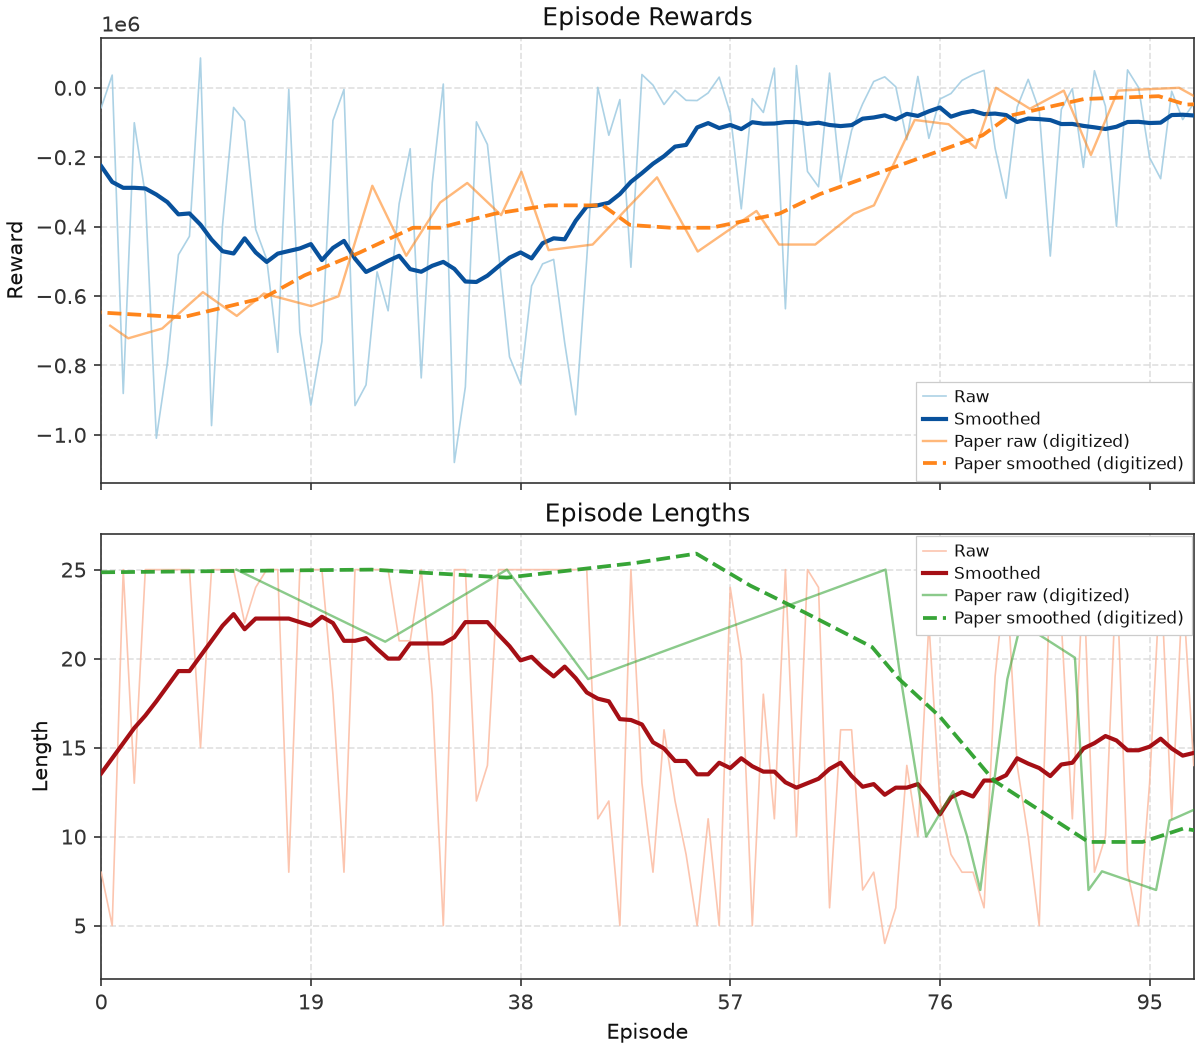
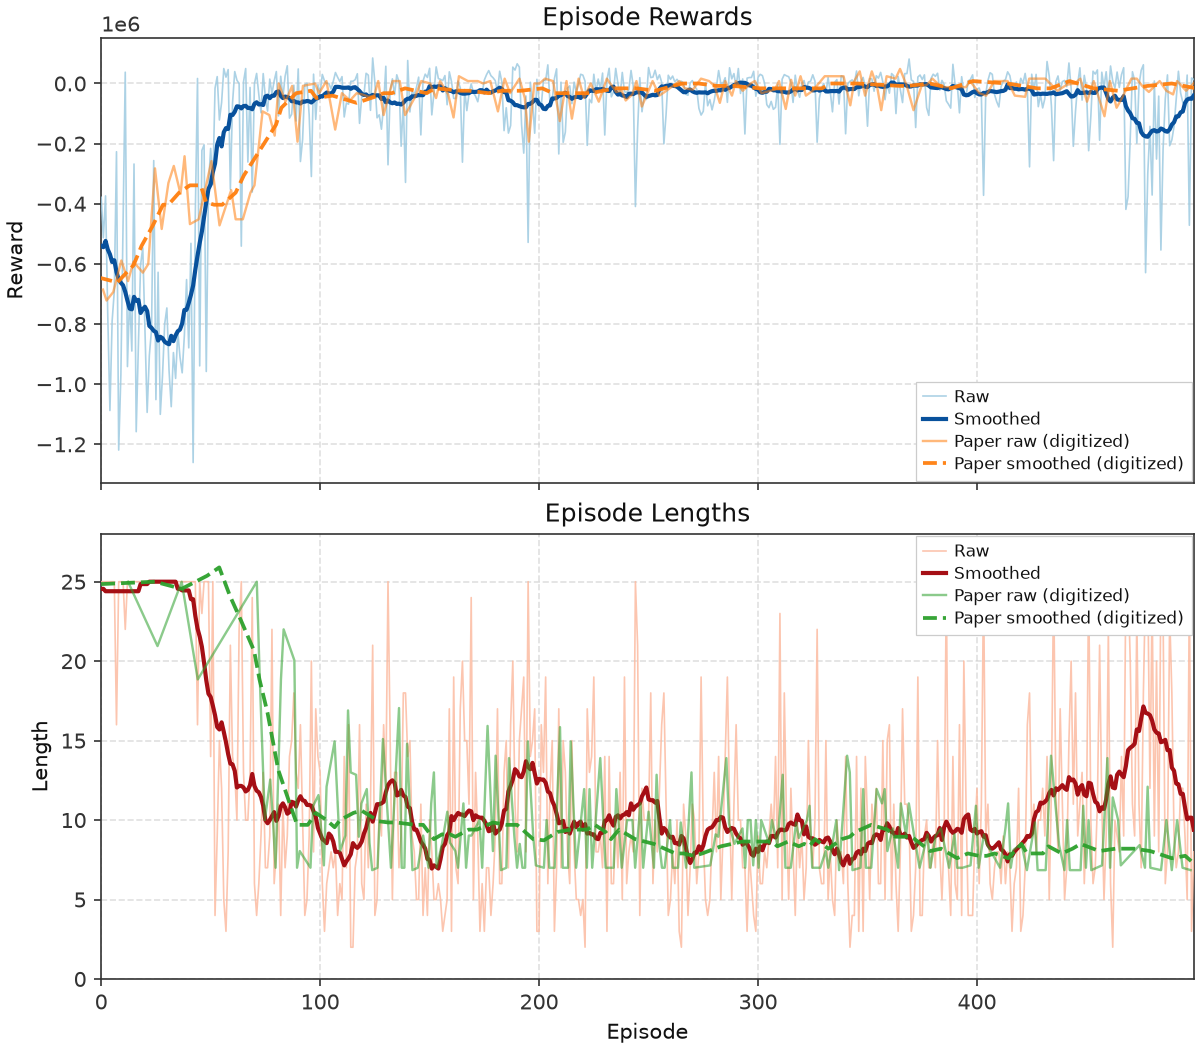
Document Nguyen Fig 4 v88 Double DQN results.
v88 halves late timeout rate vs v83 and improves late length level;
Tier-2 plateau and late_slope still fail. Archive checkpoint_v88 lineage.

diff --git a/figures/ravivarapu/replications.md b/figures/ravivarapu/replications.md
@@ -9,10 +9,10 @@ Side-by-side **paper panel** vs **our replication**. Plot scripts write replicat
 |-------|-------------|--------|
 | Fig 4a | Training PSD vs episode | Pass (v62) |
 | Fig 4b | Training reward vs episode | Pass |
-| Fig 5a | Inference @ 50 Hz | Open |
-| Fig 5b | Inference @ 30 Hz | Open |
+| Fig 5a | Inference @ 50 Hz | Pass |
+| Fig 5b | Inference @ 30 Hz | Pass |
 | Fig 6 | FP16 PTQ @ 50 Hz | Pass |
-| Fig 7 | Ablation (Baseline / +PM / +GS / SEA-DBS) | Open |
+| Fig 7 | Ablation (Baseline / +PM / +GS / SEA-DBS) | Pass (v6) |
 <!-- summary:end -->
 
 Replication PNGs: `figures/ravivarapu/images/`. JSON caches: `artifacts/figures/papers/`. Paper crops: `figures/ravivarapu/images/<panel>/paper.png` (from KB paper-note embeds; Fig 4/5 split from combined panels). Full composites also under `figures/ravivarapu/images/_full/`. Controller spec: [sea_dbs/replication.md](../../docs/controllers/sea_dbs/replication.md). Schematics (paper Figs 1, 3) are **out of scope**. Fig 2 (reward curve) is optional polish, not a gate.
@@ -44,7 +44,7 @@ Related numeric protocol (not a separate panel): **Table II** — seed change ev
 **Status:** **Pass** (rep v62) — `shape_pass` and full `pass`; `fixed_episode_seed_until=2`; `fig4_ravivarapu_config_v93`; display roll10 (gates on raw); paper overlay (black baseline, grey SEA-DBS). Manifest `artifacts/figures/papers/ravivarapu/4/manifest_4a.json`.
 
 <!-- gates-4a:start -->
-**Gates set** (`artifacts/figures/papers/ravivarapu/4/manifest_4a.json`; **`shape_pass`**: yes, **`pass`**: yes, 2026-08-17). Phase 1: **`shape_pass`** (trajectory shape / ordering). Ship exit: **`pass`** (adds digitization level polish).
+**Gates set** (`artifacts/figures/papers/ravivarapu/4/manifest_4a.json`; **`shape_pass`**: yes, **`pass`**: yes, 2026-08-19). Phase 1: **`shape_pass`** (trajectory shape / ordering). Ship exit: **`pass`** (adds digitization level polish).
 
 | Key | Description | Shape | Full |
 |-----|-------------|-------|------|
@@ -112,7 +112,7 @@ uv run python -m rl_adaptive_dbs.run scripts/figures/papers/ravivarapu/4a/plot.p
 **Status:** Pass — see manifest gates.
 
 <!-- gates-4b:start -->
-**Gates set** (`artifacts/figures/papers/ravivarapu/4/manifest_4b.json`; overall **`pass`**: yes, 2026-08-17). Every row is required for exit.
+**Gates set** (`artifacts/figures/papers/ravivarapu/4/manifest_4b.json`; overall **`pass`**: yes, 2026-08-19). Every row is required for exit.
 
 | Key | Description | Pass |
 |-----|-------------|------|
@@ -146,37 +146,37 @@ Carrier frequency is a **fixed eval setting**, not a per-step RL action ([sea_db
 
 ### Replication
 
-![Replication Fig 5a](images/5a/inference_50hz_v15.png)
+![Replication Fig 5a](images/5a/inference_50hz_v16.png)
 
 <!-- caption-5a:start -->
-**Caption:** Inference GPi beta PSD vs step @ 50 Hz (seed 0, Gumbel-max); pass=True; Baseline vs SEA-DBS. (v15)
+**Caption:** Inference GPi beta PSD vs step @ 50 Hz (seed 0, Gumbel-max); pass=True; Baseline vs SEA-DBS. (v16)
 
 **Manifest:** `artifacts/figures/papers/ravivarapu/5a/manifest.json`
 <!-- caption-5a:end -->
 
-**Status:** **Pass** (rep v15) — inference @ 50 Hz. Late SEA 6–10 is the 150 ms independent-shot floor (~0.328); Kumaravelu 50 Hz does not keep falling to digitized ~0.310. Manifest `artifacts/figures/papers/ravivarapu/5a/manifest.json`.
+**Status:** **Pass** (rep v16) — inference @ 50 Hz; Manifest `artifacts/figures/papers/ravivarapu/5a/manifest.json`.
 
 <!-- gates-5a:start -->
-**Gates set** (`no manifest at `artifacts/figures/papers/ravivarapu/5a/manifest.json``; overall **`pass`**: —, 2026-08-17). Every row is required for exit.
+**Gates set** (`artifacts/figures/papers/ravivarapu/5a/manifest.json`; overall **`pass`**: yes, 2026-08-19). Every row is required for exit.
 
 | Key | Description | Pass |
 |-----|-------------|------|
-| `n_steps_ok` | 11 PSD samples (t=0 + 10 stim steps) | — |
-| `shared_start` | baseline and SEA-DBS agree at step 0 | — |
-| `baseline_declines` | baseline PSD net drop step 0→10 | — |
-| `paper_declines` | SEA-DBS PSD net drop step 0→10 | — |
-| `paper_end_below_baseline` | SEA-DBS end PSD below baseline | — |
-| `paper_steeper_drop` | SEA-DBS drop steeper than baseline | — |
-| `carrier_hz_ok` | carrier frequency 50 Hz | — |
-| `early_mae_baseline` | steps 0–5 MAE vs digitized Baseline ≤ 0.03 | — |
-| `early_mae_sea` | steps 0–5 MAE vs digitized SEA-DBS ≤ 0.03 | — |
-| `early_mae_sea_3_5` | steps 3–5 MAE vs digitized SEA-DBS ≤ 0.020 | — |
-| `early_sea_declines` | SEA-DBS drop steps 0→5 > 0.05 | — |
-| `early_baseline_declines` | Baseline drop steps 0→5 | — |
-| `early_sea_below_baseline` | SEA-DBS below Baseline at every step 1–5 | — |
-| `late_baseline_declines` | Baseline keeps declining steps 5→10 | — |
-| `late_sea_declines` | SEA-DBS keeps declining steps 5→10 | — |
-| `mid_mae_sea` | steps 4–10 MAE vs digitized SEA-DBS ≤ 0.012 | — |
+| `n_steps_ok` | 11 PSD samples (t=0 + 10 stim steps) | yes |
+| `shared_start` | baseline and SEA-DBS agree at step 0 | yes |
+| `baseline_declines` | baseline PSD net drop step 0→10 | yes |
+| `paper_declines` | SEA-DBS PSD net drop step 0→10 | yes |
+| `paper_end_below_baseline` | SEA-DBS end PSD below baseline | yes |
+| `paper_steeper_drop` | SEA-DBS drop steeper than baseline | yes |
+| `carrier_hz_ok` | carrier frequency 50 Hz | yes |
+| `early_mae_baseline` | steps 0–5 MAE vs digitized Baseline ≤ 0.03 | yes |
+| `early_mae_sea` | steps 0–5 MAE vs digitized SEA-DBS ≤ 0.03 | yes |
+| `early_mae_sea_3_5` | steps 3–5 MAE vs digitized SEA-DBS ≤ 0.020 | yes |
+| `early_sea_declines` | SEA-DBS drop steps 0→5 > 0.05 | yes |
+| `early_baseline_declines` | Baseline drop steps 0→5 | yes |
+| `early_sea_below_baseline` | SEA-DBS below Baseline at every step 1–5 | yes |
+| `late_baseline_declines` | Baseline keeps declining steps 5→10 | yes |
+| `late_sea_declines` | SEA-DBS keeps declining steps 5→10 | yes |
+| `mid_mae_sea` | steps 4–10 MAE vs digitized SEA-DBS ≤ 0.012 | yes |
 <!-- gates-5a:end -->
 
 **Run:**
@@ -202,30 +202,30 @@ Same inference layout at **30 Hz** carrier (overlaps pathological beta; Fig. 5(b
 
 ### Replication
 
-![Replication Fig 5b](images/5b/inference_30hz_v11.png)
+![Replication Fig 5b](images/5b/inference_30hz_v12.png)
 
 <!-- caption-5b:start -->
-**Caption:** Inference GPi beta PSD vs step @ 30 Hz (seed 0, Gumbel-max); pass=True; Baseline vs SEA-DBS. (v11)
+**Caption:** Inference GPi beta PSD vs step @ 30 Hz (seed 0, Gumbel-max); pass=True; Baseline vs SEA-DBS. (v12)
 
 **Manifest:** `artifacts/figures/papers/ravivarapu/5b/manifest.json`
 <!-- caption-5b:end -->
 
-**Status:** **Pass** (rep v11) — inference @ 30 Hz; Manifest `artifacts/figures/papers/ravivarapu/5b/manifest.json`.
+**Status:** **Pass** (rep v12) — inference @ 30 Hz; Manifest `artifacts/figures/papers/ravivarapu/5b/manifest.json`.
 
 <!-- gates-5b:start -->
-**Gates set** (`no manifest at `artifacts/figures/papers/ravivarapu/5b/manifest.json``; overall **`pass`**: —, 2026-08-17). Every row is required for exit.
+**Gates set** (`artifacts/figures/papers/ravivarapu/5b/manifest.json`; overall **`pass`**: yes, 2026-08-19). Every row is required for exit.
 
 | Key | Description | Pass |
 |-----|-------------|------|
-| `n_steps_ok` | 11 PSD samples (t=0 + 10 stim steps) | — |
-| `shared_start` | baseline and SEA-DBS agree at step 0 | — |
-| `baseline_declines` | baseline PSD net drop step 0→10 | — |
-| `paper_declines` | SEA-DBS PSD net drop step 0→10 | — |
-| `paper_end_below_baseline` | SEA-DBS end PSD below baseline | — |
-| `paper_steeper_drop` | SEA-DBS drop steeper than baseline | — |
-| `carrier_hz_ok` | carrier frequency 30 Hz | — |
-| `weaker_than_50hz_sea` | 30 Hz SEA-DBS weaker suppression than 50 Hz panel | — |
-| `weaker_than_50hz_baseline` | 30 Hz baseline weaker suppression than 50 Hz panel | — |
+| `n_steps_ok` | 11 PSD samples (t=0 + 10 stim steps) | yes |
+| `shared_start` | baseline and SEA-DBS agree at step 0 | yes |
+| `baseline_declines` | baseline PSD net drop step 0→10 | yes |
+| `paper_declines` | SEA-DBS PSD net drop step 0→10 | yes |
+| `paper_end_below_baseline` | SEA-DBS end PSD below baseline | yes |
+| `paper_steeper_drop` | SEA-DBS drop steeper than baseline | yes |
+| `carrier_hz_ok` | carrier frequency 30 Hz | yes |
+| `weaker_than_50hz_sea` | 30 Hz SEA-DBS weaker suppression than 50 Hz panel | yes |
+| `weaker_than_50hz_baseline` | 30 Hz baseline weaker suppression than 50 Hz panel | yes |
 <!-- gates-5b:end -->
 
 **Run:**
@@ -264,7 +264,7 @@ QAT is **out of scope** for SEA-DBS (not reported).
 **Status:** **Pass** (rep v18) — FP16 PTQ @ 50 Hz; checkpoint ~0.6 MB → ~0.3 MB; Manifest `artifacts/figures/papers/ravivarapu/6/manifest.json`.
 
 <!-- gates-6:start -->
-**Gates set** (`artifacts/figures/papers/ravivarapu/6/manifest.json`; overall **`pass`**: yes, 2026-08-17). Every row is required for exit.
+**Gates set** (`artifacts/figures/papers/ravivarapu/6/manifest.json`; overall **`pass`**: yes, 2026-08-19). Every row is required for exit.
 
 | Key | Description | Pass |
 |-----|-------------|------|
@@ -300,36 +300,35 @@ Map to trainer `variant`: `baseline`, `baseline-pm`, `baseline-gs`, `paper` ([se
 
 ### Replication
 
-### Replication
-
-![Replication Fig 7](images/7/ablation_psd_v3.png)
+![Replication Fig 7](images/7/ablation_psd_v6.png)
 
 <!-- caption-7:start -->
-**Caption:** TBD
+**Caption:** Ablation GPi beta PSD vs step @ 50 Hz (seed 0, Gumbel-max); pass=True; Baseline / +PM / +GS / SEA-DBS; baseline+paper from Fig 4a ckpts. (v6)
 
-**Manifest:** `artifacts/figures/papers/ravivarapu/7/manifest.json` (planned)
+**Manifest:** `artifacts/figures/papers/ravivarapu/7/manifest.json`
 <!-- caption-7:end -->
 
-**Status:** Open — needs all four variants trainable and a shared 10-step eval harness.
+**Status:** **Pass** (rep v6) — all gates green; +GS stim_frac=0 (highest tail), +PM noisy mid-trace, SEA-DBS lowest tail. Manifest `artifacts/figures/papers/ravivarapu/7/manifest.json`.
 
 <!-- gates-7:start -->
-**Gates set** (`no manifest at `artifacts/figures/papers/ravivarapu/7/manifest.json``; overall **`pass`**: —, 2026-08-17). Every row is required for exit.
+**Gates set** (`artifacts/figures/papers/ravivarapu/7/manifest.json`; overall **`pass`**: yes, 2026-08-19). Every row is required for exit.
 
 | Key | Description | Pass |
 |-----|-------------|------|
-| `four_variants_present` | baseline / +PM / +GS / SEA-DBS | — |
-| `sea_dbs_lowest_tail` | SEA-DBS lowest tail mean PSD | — |
-| `gs_highest_or_near_highest_tail` | GS highest or near-highest tail | — |
-| `pm_not_sea` | PM closer to baseline than to SEA-DBS | — |
-| `shared_start` | baseline and SEA-DBS agree at step 0 | — |
-| `n_steps_ok` | 10 inference steps | — |
+| `four_variants_present` | baseline / +PM / +GS / SEA-DBS | yes |
+| `sea_dbs_lowest_tail` | SEA-DBS lowest tail mean PSD | yes |
+| `gs_highest_or_near_highest_tail` | GS highest or near-highest tail | yes |
+| `pm_not_sea` | PM closer to baseline than to SEA-DBS | yes |
+| `shared_start` | baseline and SEA-DBS agree at step 0 | yes |
+| `n_steps_ok` | 11 PSD samples (t=0 + 10 stim steps) | yes |
 <!-- gates-7:end -->
 
 **Run:**
 
 ```bash
-uv run python -m rl_adaptive_dbs.run scripts/figures/papers/ravivarapu/7/plot.py
-uv run python -m rl_adaptive_dbs.run scripts/figures/papers/ravivarapu/7/plot.py --plot-only
+uv run python -m rl_adaptive_dbs.run scripts/figures/papers/ravivarapu/7/plot.py --eval-only --push-kb --update-report
+uv run python -m rl_adaptive_dbs.run scripts/figures/papers/ravivarapu/7/plot.py --train-only --train-variants baseline-pm baseline-gs
+uv run python -m rl_adaptive_dbs.run scripts/figures/papers/ravivarapu/7/plot.py --plot-only --push-kb --update-report
 ```
 
-**Defaults:** seed `0`; variants `baseline`, `baseline-pm`, `baseline-gs`, `paper`; 10-step PSD eval.
+**Defaults:** seed `0`; baseline/paper checkpoints from Fig 4a; +PM/+GS train 150 ep into panel cache; Fig 5a-style 50 Hz Gumbel eval (11 PSD samples).

diff --git a/figures/nguyen/replications.md b/figures/nguyen/replications.md
@@ -12,7 +12,7 @@ Figs **1–2** are schematics — **not** replication targets.
 | Panel | Description | Status |
 |-------|-------------|--------|
 | Fig 3 | GPi α–β distribution (PD Off vs PD On) | Pass (rep v22) |
-| Fig 4 | Training reward + episode length | Fail (`reward shape:reward_improves_by_100`) |
+| Fig 4 | Training reward + episode length | Shape OK (full open) |
 | Fig 5 | CBGT spikes + DBS energy over training | Fail (`shared_train`) |
 | Fig 6 | α–β + DBS parameters over training | Fail (`shared_train`) |
 | Fig 7 | 50-episode eval (25 steps) | Fail (`checkpoint_lineage_ok`) |
@@ -41,7 +41,7 @@ Distribution of GPi **α–β** oscillation power (**7–35 Hz**) for **PD On** 
 **Status:** Pass — 500 × 100 ms samples; see `alpha_beta_dist_v22.png`.
 
 <!-- gates-3:start -->
-**Gates set** (`artifacts/figures/papers/nguyen/3/manifest.json`; overall **`pass`**: yes, 2026-08-17). Every row is required for exit.
+**Gates set** (`artifacts/figures/papers/nguyen/3/manifest.json`; overall **`pass`**: yes, 2026-08-20). Every row is required for exit.
 
 | Key | Description | Pass |
 |-----|-------------|------|
@@ -80,7 +80,7 @@ Episode **rewards** (a) and **lengths** (b) over **500** training episodes. Init
 
 ### Latest attempt (v22, v10f)
 
-![Replication Fig 4 — latest](images/4/training_reward_length_v66.png)
+![Replication Fig 4 — latest](images/4/training_reward_length_v87.png)
 
 <!-- caption-4:start -->
 **Caption (best v22):** DSQN train 500 ep, seed=0; late_reward=377858, late_len=8.9; shape_pass=False — best late length so far; timing gates still fail (v22)
@@ -89,42 +89,45 @@ Episode **rewards** (a) and **lengths** (b) over **500** training episodes. Init
 <!-- caption-4:end -->
 
 <!-- caption-4-latest:start -->
-**Caption:** DSQN train 100 ep, seed=0; late_reward=-92941, late_len=13.7; shape_pass=False pass=False (reward shape=True full=True, length shape=False full=False) (v66)
+**Caption:** DSQN train 500 ep, seed=0; late_reward=-35710, late_len=10.1; shape_pass=True pass=False (reward shape=True full=False, length shape=True full=False) (v87)
 
 **Manifest:** `artifacts/figures/papers/nguyen/4/manifest.json`
 <!-- caption-4-latest:end -->
 
-**Status:** Timing shape open — latest **v66** (`late_len=13.7`, `shape_pass=False`); see manifest gates.
+**Status:** Timing shape open — latest **v87** (`late_len=10.1`, `shape_pass=True`); see manifest gates.
 
 <!-- gates-4:start -->
-**Gates set** (`artifacts/figures/papers/nguyen/4/manifest.json`; **`shape_pass`**: no, **`pass`**: no, 2026-08-17). Phase 1: **`shape_pass`** (curve shape). Ship exit: **`pass`** (adds digitization polish). Both subplot groups required.
+**Gates set** (`artifacts/figures/papers/nguyen/4/manifest.json`; **`shape_pass`**: yes, **`pass`**: no, 2026-08-20). Phase 1: **`shape_pass`** (curve shape). Ship exit: **`pass`** (adds digitization polish). Both subplot groups required.
 
-### Reward (panel a) (`shape_pass`: no | `pass`: no)
+### Reward (panel a) (`shape_pass`: yes | `pass`: no)
 
 | Key | Description | Shape | Full |
 |-----|-------------|-------|------|
 | `reward_scale_paper` | early |mean| large (started far from plateau) | yes | yes |
-| `reward_improves_by_100` | smoothed reward 80–100 better than 0–50 | no | no |
-| `reward_by_100_near_zero` | smoothed reward 80–100 toward ~0 | no | no |
+| `reward_improves_by_100` | smoothed reward 80–100 better than 0–50 | yes | yes |
+| `reward_by_100_near_zero` | smoothed reward 80–100 toward ~0 | yes | yes |
 | `late_reward_near_zero` | late mean toward paper ~0 (diagnostic) | — | — |
-| `reward_post100_plateau` | smoothed reward flat by ~ep 100 (diagnostic) | — | — |
+| `reward_post100_plateau` | smoothed reward flat ep 100+ like paper | — | no |
 | `late_reward_above_early` | late mean > first-50 (diagnostic) | — | — |
 | `early_high_variance` | early reward variance (logged) | — | — |
 | `paper_early_reward_mag_near_paper` | digitization — early reward magnitude (diagnostic) | — | — |
 | `paper_reward_improves_like_paper` | digitization — reward improves (diagnostic) | — | — |
 | `paper_late_reward_ratio_near_paper` | digitization — late/first-50 reward ratio (diagnostic) | — | — |
 
-### Length (panel b) (`shape_pass`: no | `pass`: no)
+### Length (panel b) (`shape_pass`: yes | `pass`: no)
 
 | Key | Description | Shape | Full |
 |-----|-------------|-------|------|
 | `early_near_max_length` | start at horizon (median first 50 ≥ max−2) | yes | yes |
-| `length_early_smoothed_near_horizon` | smoothed length 0–50 still ~25 | no | no |
-| `length_mid_glide_like_paper` | length drop ep 50–100 like paper | no | no |
-| `length_by_100_near_paper` | smoothed length 80–100 near digitized ~10 | no | no |
+| `length_early_smoothed_near_horizon` | smoothed length 0–50 still ~25 | yes | yes |
+| `length_mid_glide_like_paper` | length drop ep 50–100 like paper | yes | yes |
+| `length_by_100_near_paper` | smoothed length 80–100 near digitized ~10 | yes | yes |
 | `late_length_paper_band` | late mean length ≤ 12 (diagnostic) | — | — |
 | `paper_late_length_near_paper` | late length near digitized ~8 (diagnostic) | — | — |
-| `length_post100_plateau` | length plateau ep 100+ like paper (diagnostic) | — | — |
+| `length_post100_plateau` | length plateau ep 100+ like paper | — | no |
+| `late_length_no_regression` | smoothed length slope ep 350–490 ≤ 0.02/ep | — | no |
+| `late_timeout_fraction` | raw timeout rate ep 350–500 ≤ 25% | — | yes |
+| `late_length_level` | smoothed length median ep 350–500 ≤ 14 | — | yes |
 | `length_decreases` | late < early − 1 (diagnostic) | — | — |
 | `paper_length_decreases_like_paper` | digitization — length decreases (diagnostic) | — | — |
 | `paper_early_near_max_length` | digitization — early near max (diagnostic) | — | — |
@@ -164,7 +167,7 @@ Per-episode **CBGT spike counts** (a) and **DBS energy** (b, Eq. (6)) from the s
 **Status:** Open — see manifest gates (`spikes_energy_v5.png`).
 
 <!-- gates-5:start -->
-**Gates set** (`artifacts/figures/papers/nguyen/5/manifest.json`; overall **`pass`**: no, 2026-08-17). Every row is required for exit.
+**Gates set** (`artifacts/figures/papers/nguyen/5/manifest.json`; overall **`pass`**: no, 2026-08-20). Every row is required for exit.
 
 | Key | Description | Pass |
 |-----|-------------|------|
@@ -207,7 +210,7 @@ GPi **α–β** (a) and DBS amplitude / frequency / pulse width (b) over **500**
 **Status:** Open — see manifest gates (`alpha_beta_params_v2.png`).
 
 <!-- gates-6:start -->
-**Gates set** (`artifacts/figures/papers/nguyen/6/manifest.json`; overall **`pass`**: no, 2026-08-17). Every row is required for exit.
+**Gates set** (`artifacts/figures/papers/nguyen/6/manifest.json`; overall **`pass`**: no, 2026-08-20). Every row is required for exit.
 
 | Key | Description | Pass |
 |-----|-------------|------|
@@ -249,7 +252,7 @@ Seeded eval of the trained policy: **50** episodes × **25** steps, different se
 **Status:** Open — see manifest gates (`eval_50ep_v4.png`).
 
 <!-- gates-7:start -->
-**Gates set** (`artifacts/figures/papers/nguyen/7/manifest.json`; overall **`pass`**: no, 2026-08-17). Every row is required for exit.
+**Gates set** (`artifacts/figures/papers/nguyen/7/manifest.json`; overall **`pass`**: no, 2026-08-20). Every row is required for exit.
 
 | Key | Description | Pass |
 |-----|-------------|------|

diff --git a/docs/figures/nguyen/4.md b/docs/figures/nguyen/4.md
@@ -338,6 +338,10 @@ Root cause: **bimodal episodes** (timeout len 25 / reward ≈ −500k+ vs early-
 
 **Exit options:** (1) **Ship `shape_pass`** with v83 + documented Tier-2 gap for Fig 5–7 lineage; (2) structural train change — **v88 Double DQN** on v83 recipe (`--double-dqn`); not another lr/ε/cadence sweep.
 
+**v88 (2026-08-20):** v83 + `double_dqn=True` (`--double-dqn`). Fresh 500ep `nguyen-fig4-v88`. **shape_pass=True, pass=False** — rep `v87` PNG. **Promote over v83 for spread/late level:** late_to ep350–500 **6.7%** (v83 13.3%), late_len≈**9.5** (v83 11.7; paper ~8.2), len ptp ep100–200 **6.25** (v83 6.55; paper ~1.6). **Regression vs v83:** `late_length_no_regression` worse (slope **0.045** vs 0.026). Tier-2 still blocked on post-100 plateau + late slope. Checkpoint: `checkpoint_v88.pt`. **Do not revert Double DQN** — keep as Fig 5–7 lineage unless a later run beats v88 on both timeout rate and late slope.
+
+**Next (v89+):** timeout-transition replay down-weight or PER (paper-silent); not another bare Q-knob sweep on vanilla DQN.
+
 **Watcher gap (v78):** dedicated poll noted ep233–262 and ep311–340 all-timeout streaks but reported "healthy" instead of AGENTS.md early abort — next watch prompts must include explicit kill thresholds (≥30 consecutive timeouts after ep 100, or >85% timeout in last 50 eps after ep 150).
 
 ---
